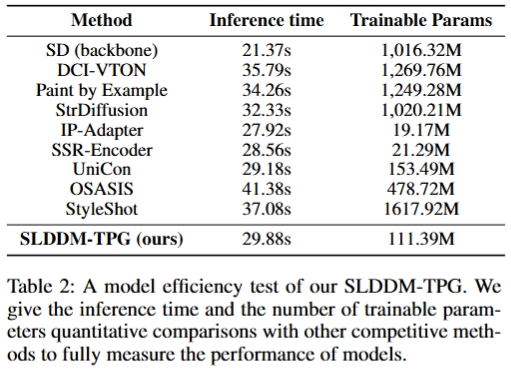
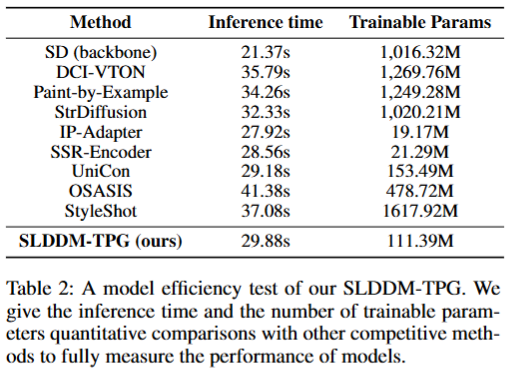
readme

Changed region(s): [[0.0, 0.0, 1.0, 0.7154], [0.0, 0.7453, 1.0, 1.0]]

diff --git a/README.md b/README.md
@@ -182,4 +182,4 @@ Although our method neither achieves the fastest inference nor the minimal param
 While our SLDDM-TPG outperforms other methods in generating faithful and high-quality textile pattern images conditioned on clothing images, it still struggles with complex patterns or low-quality, small-area reference clothing images, as shown in the figure below. This may be because there are not enough complex samples in our training data or because our model's disentangled ability does not perform well on complex samples.
 
 <!-- <img src="assets/image5.png" alt="image.png" style="display: block; margin: auto;zoom: 40%;" width="400px"/> -->
-<img src="assets/image5.png" alt="image.png" style="display: block; margin: auto;zoom: 50%;"/>
+<img src="assets/badcases.png" alt="badcases.png" style="display: block; margin: auto;zoom: 50%;"/>
